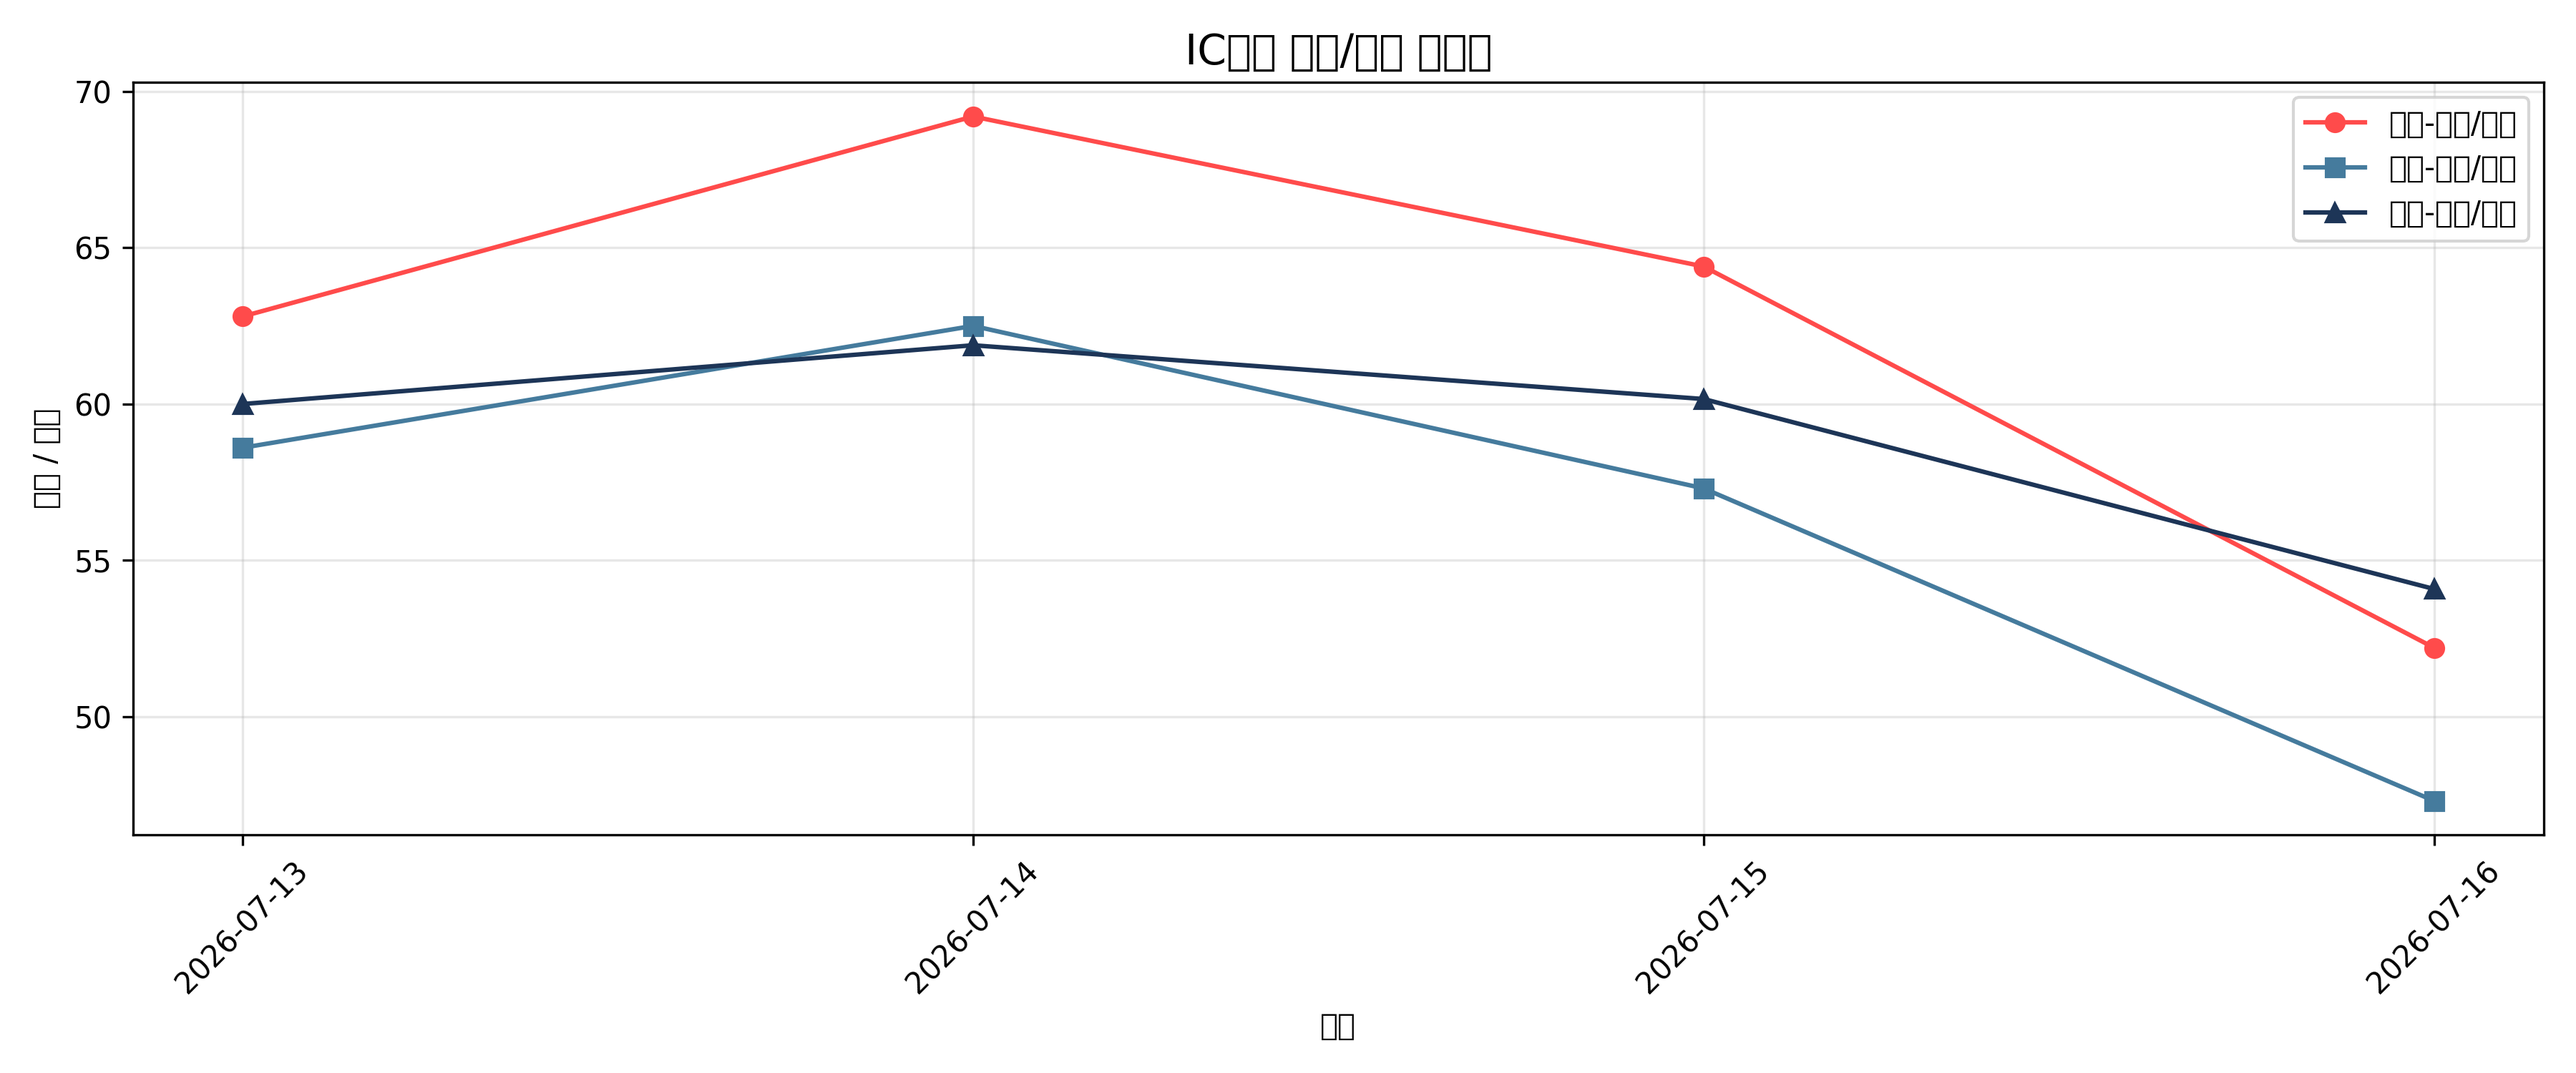
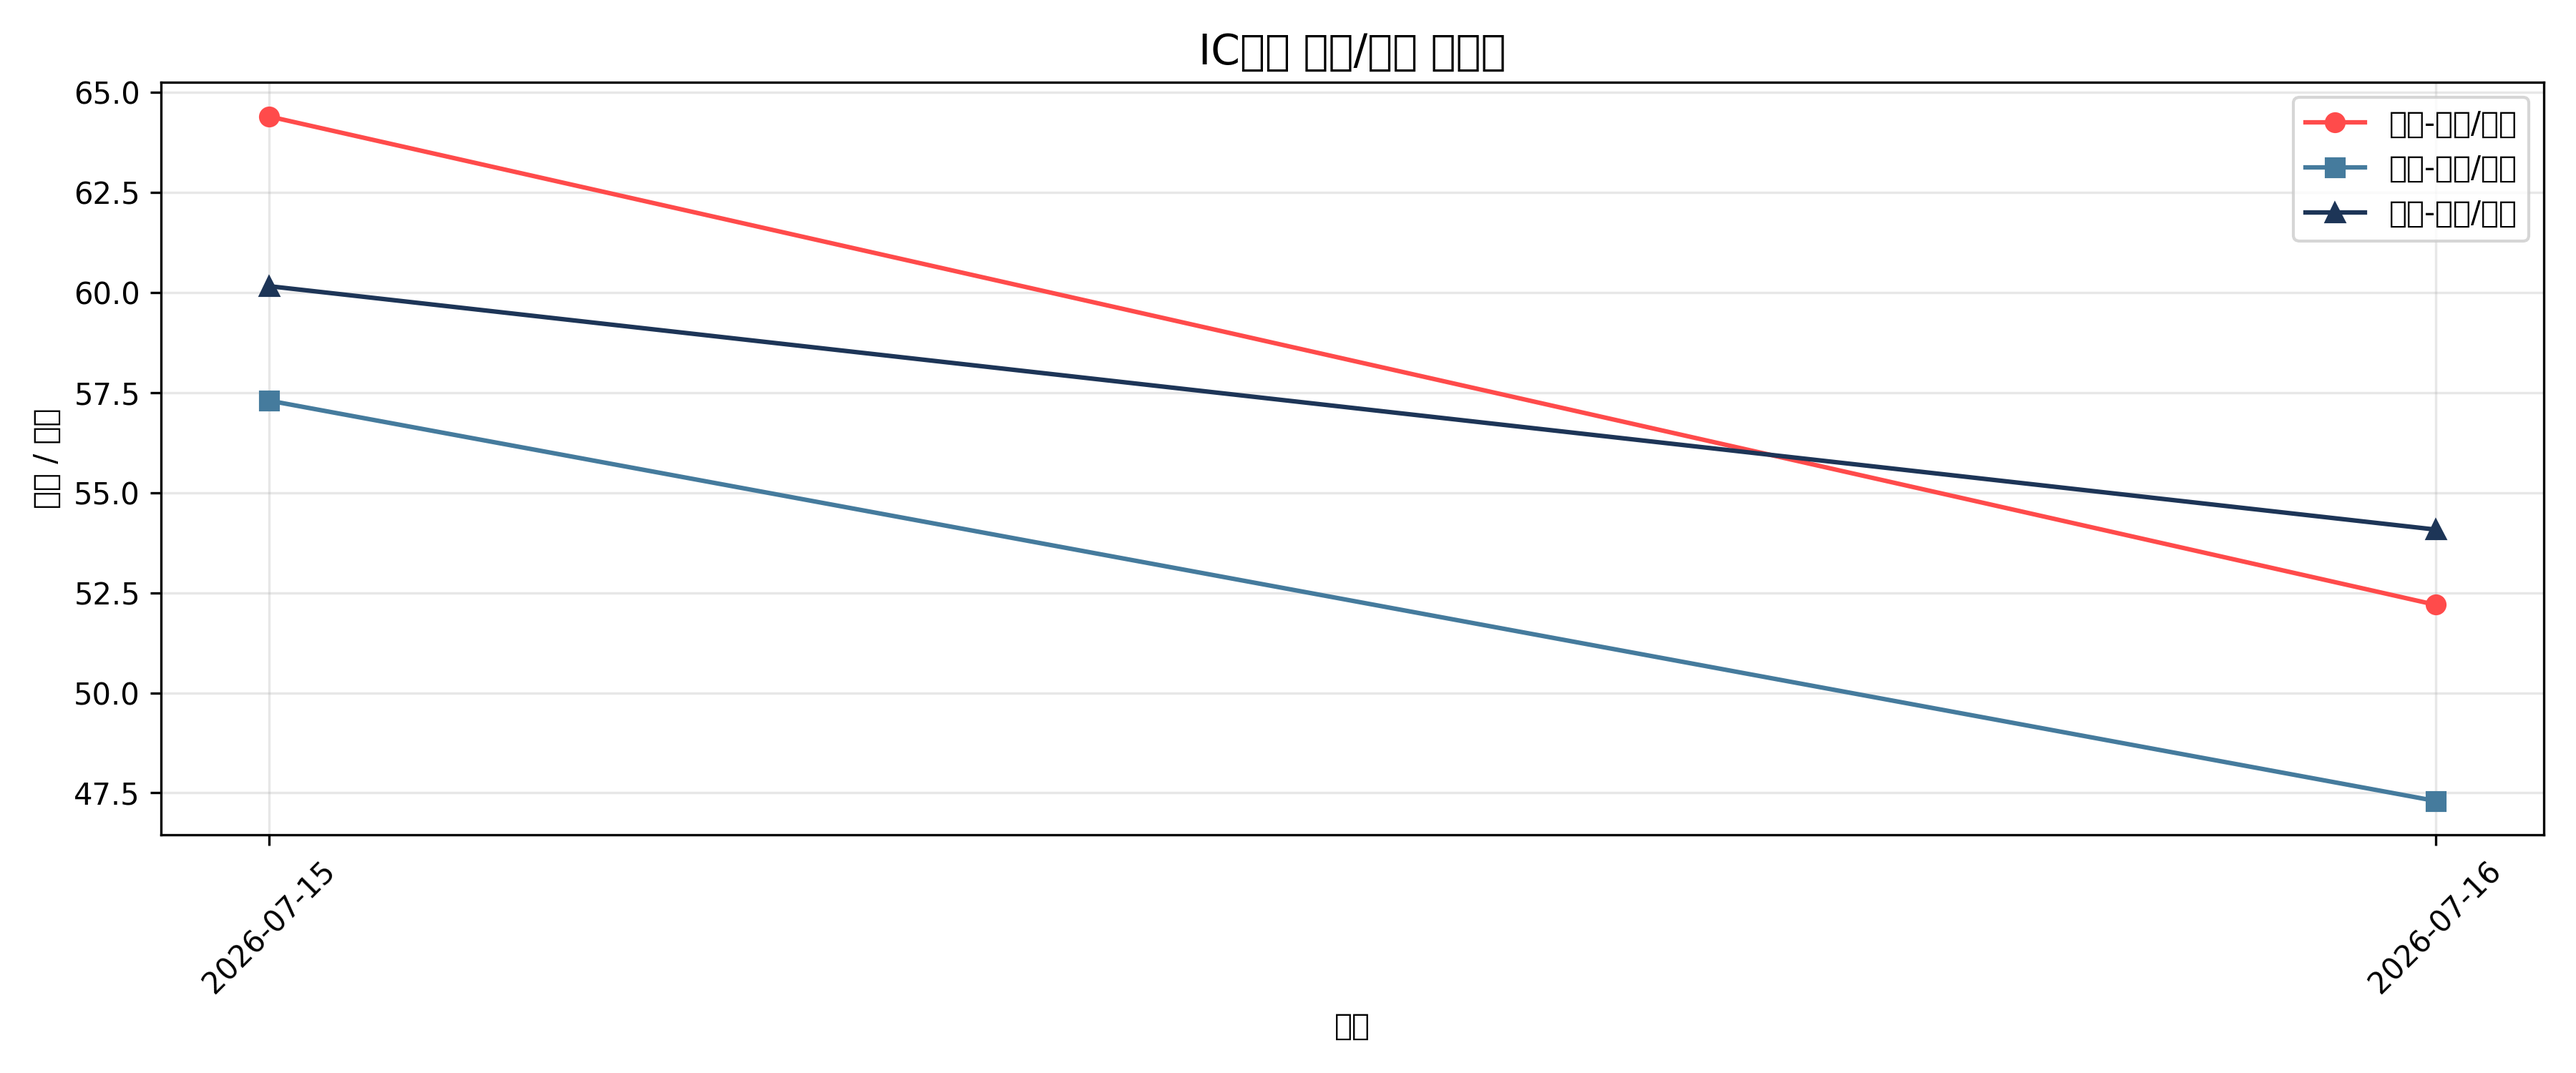
deploy: 4d1bb30b7b0bf8623cc214497fc979b4192c654b

diff --git a/index.html b/index.html
@@ -84,7 +84,7 @@
 <body>
     <div class="container">
         <h1>IC期货基差监控</h1>
-        <div class="last-updated">最后更新：2026-10-09 23:36:50</div>
+        <div class="last-updated">最后更新：2026-10-13 02:13:57</div>
         
         <div class="stats">
             <div class="stat-card">
@@ -114,22 +114,6 @@
                 <th>当月-下月/月差</th>
                 <th>当月-当季/月差</th>
                 <th>当月-下季/月差</th>
-            </tr>
-
-            <tr>
-                <td>2026-07-13</td>
-                <td>IC2607</td>
-                <td>62.8</td>
-                <td>58.6</td>
-                <td>60.0</td>
-            </tr>
-
-            <tr>
-                <td>2026-07-14</td>
-                <td>IC2607</td>
-                <td>69.2</td>
-                <td>62.5</td>
-                <td>61.88</td>
             </tr>
 
             <tr>
